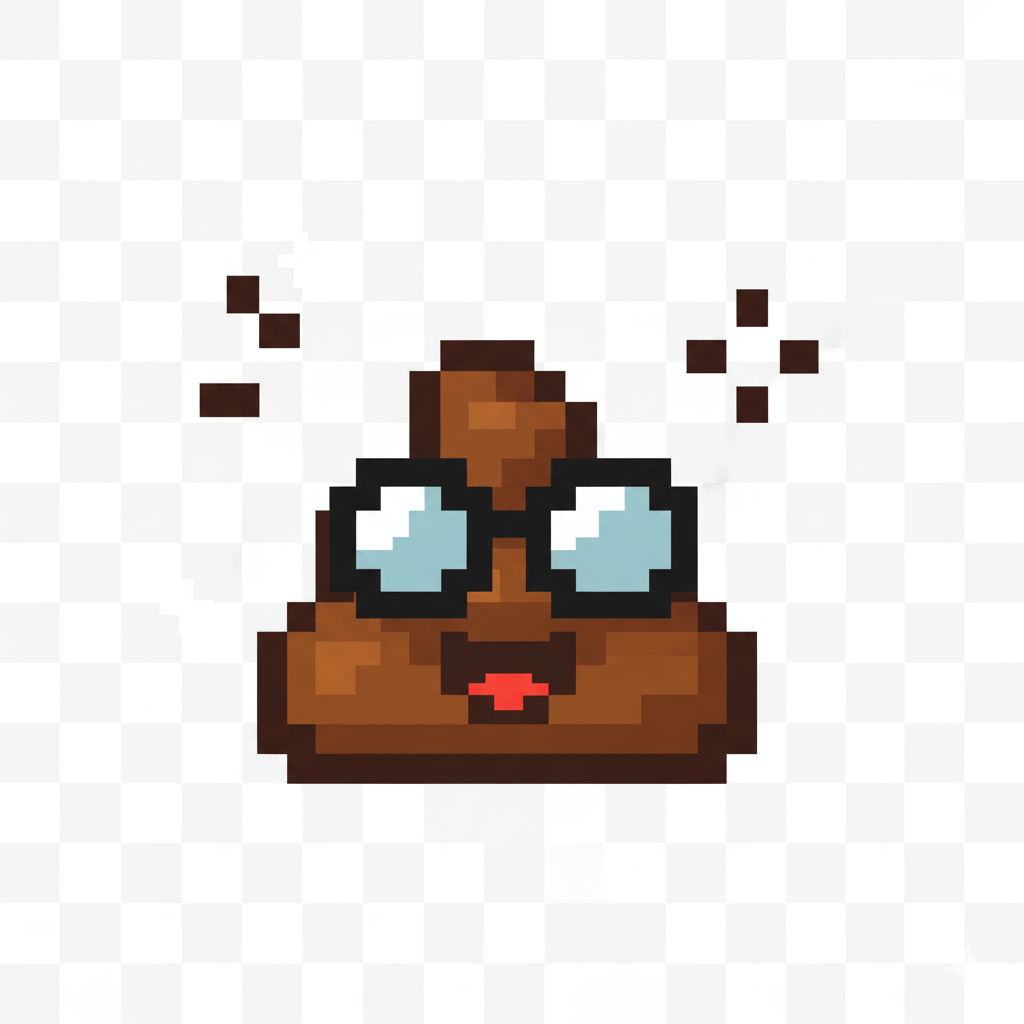
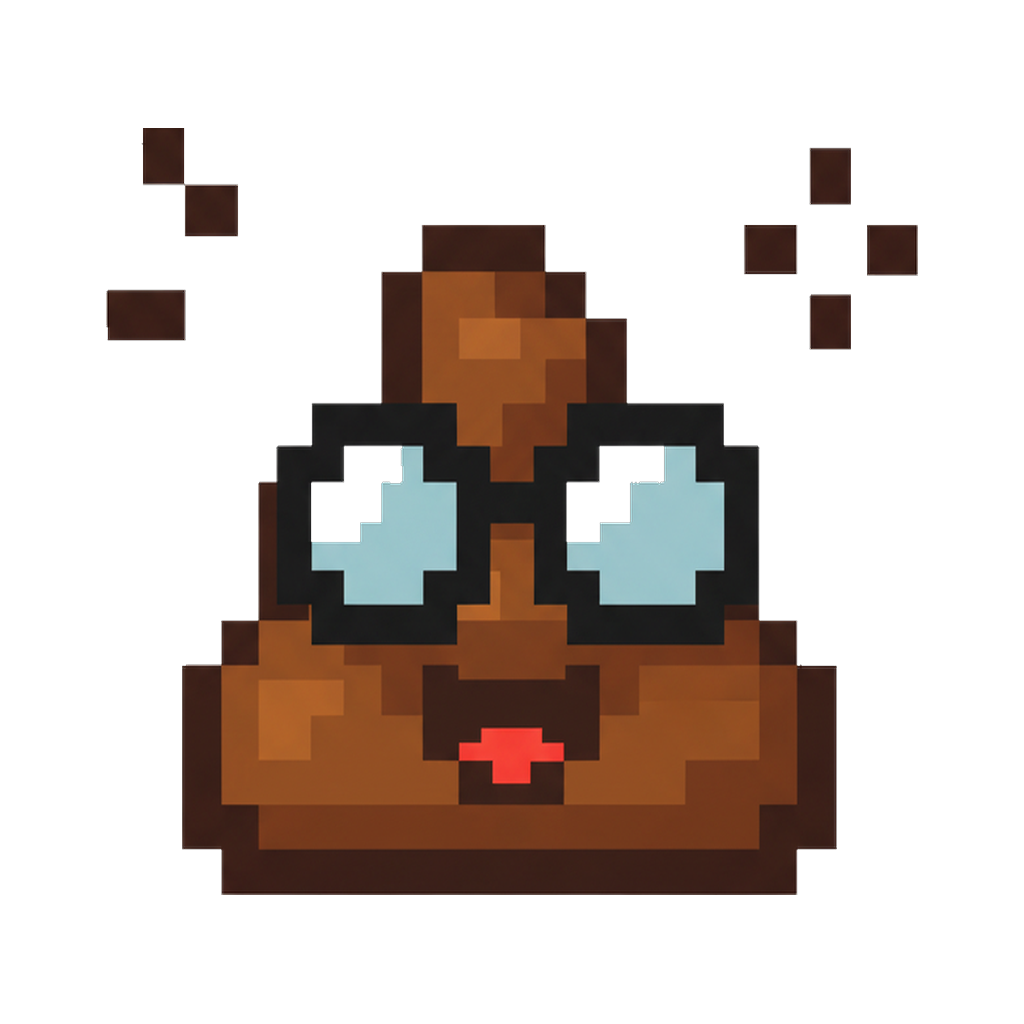
똥 크기 수정

diff --git a/src/objects/Poop.ts b/src/objects/Poop.ts
@@ -2,9 +2,21 @@ import Phaser from 'phaser';
 
 export default class Poop extends Phaser.Physics.Arcade.Sprite {
   private fallSpeed: number;
+  private static readonly POOP_TEXTURES = [
+    'poop',
+    'poop_glasses',
+    'poop_sunglass',
+    'poop_sunglass2',
+    'poop_smile'
+  ];
 
   constructor(scene: Phaser.Scene, x: number, y: number, difficulty: number = 1) {
-    super(scene, x, y, 'poop');
+    // 랜덤하게 똥 텍스처 선택
+    const randomTexture = Poop.POOP_TEXTURES[
+      Math.floor(Math.random() * Poop.POOP_TEXTURES.length)
+    ];
+
+    super(scene, x, y, randomTexture);
 
     // 원점을 중앙으로 설정
     this.setOrigin(0.5);

diff --git a/src/scenes/GameScene.ts b/src/scenes/GameScene.ts
@@ -32,7 +32,13 @@ export default class GameScene extends Phaser.Scene {
     this.load.image('front', 'assets/front.png');
     this.load.image('left', 'assets/left.png');
     this.load.image('right', 'assets/right.png');
+
+    // 다양한 똥 이미지 로드
     this.load.image('poop', 'assets/poop.png');
+    this.load.image('poop_glasses', 'assets/poop_glasses.png');
+    this.load.image('poop_sunglass', 'assets/poop_sunglass.png');
+    this.load.image('poop_sunglass2', 'assets/poop_sunglass2.png');
+    this.load.image('poop_smile', 'assets/poop_smile.png');
 
     // 오디오 로드
     this.load.audio('bgMusic', 'assets/poop.mp3');
